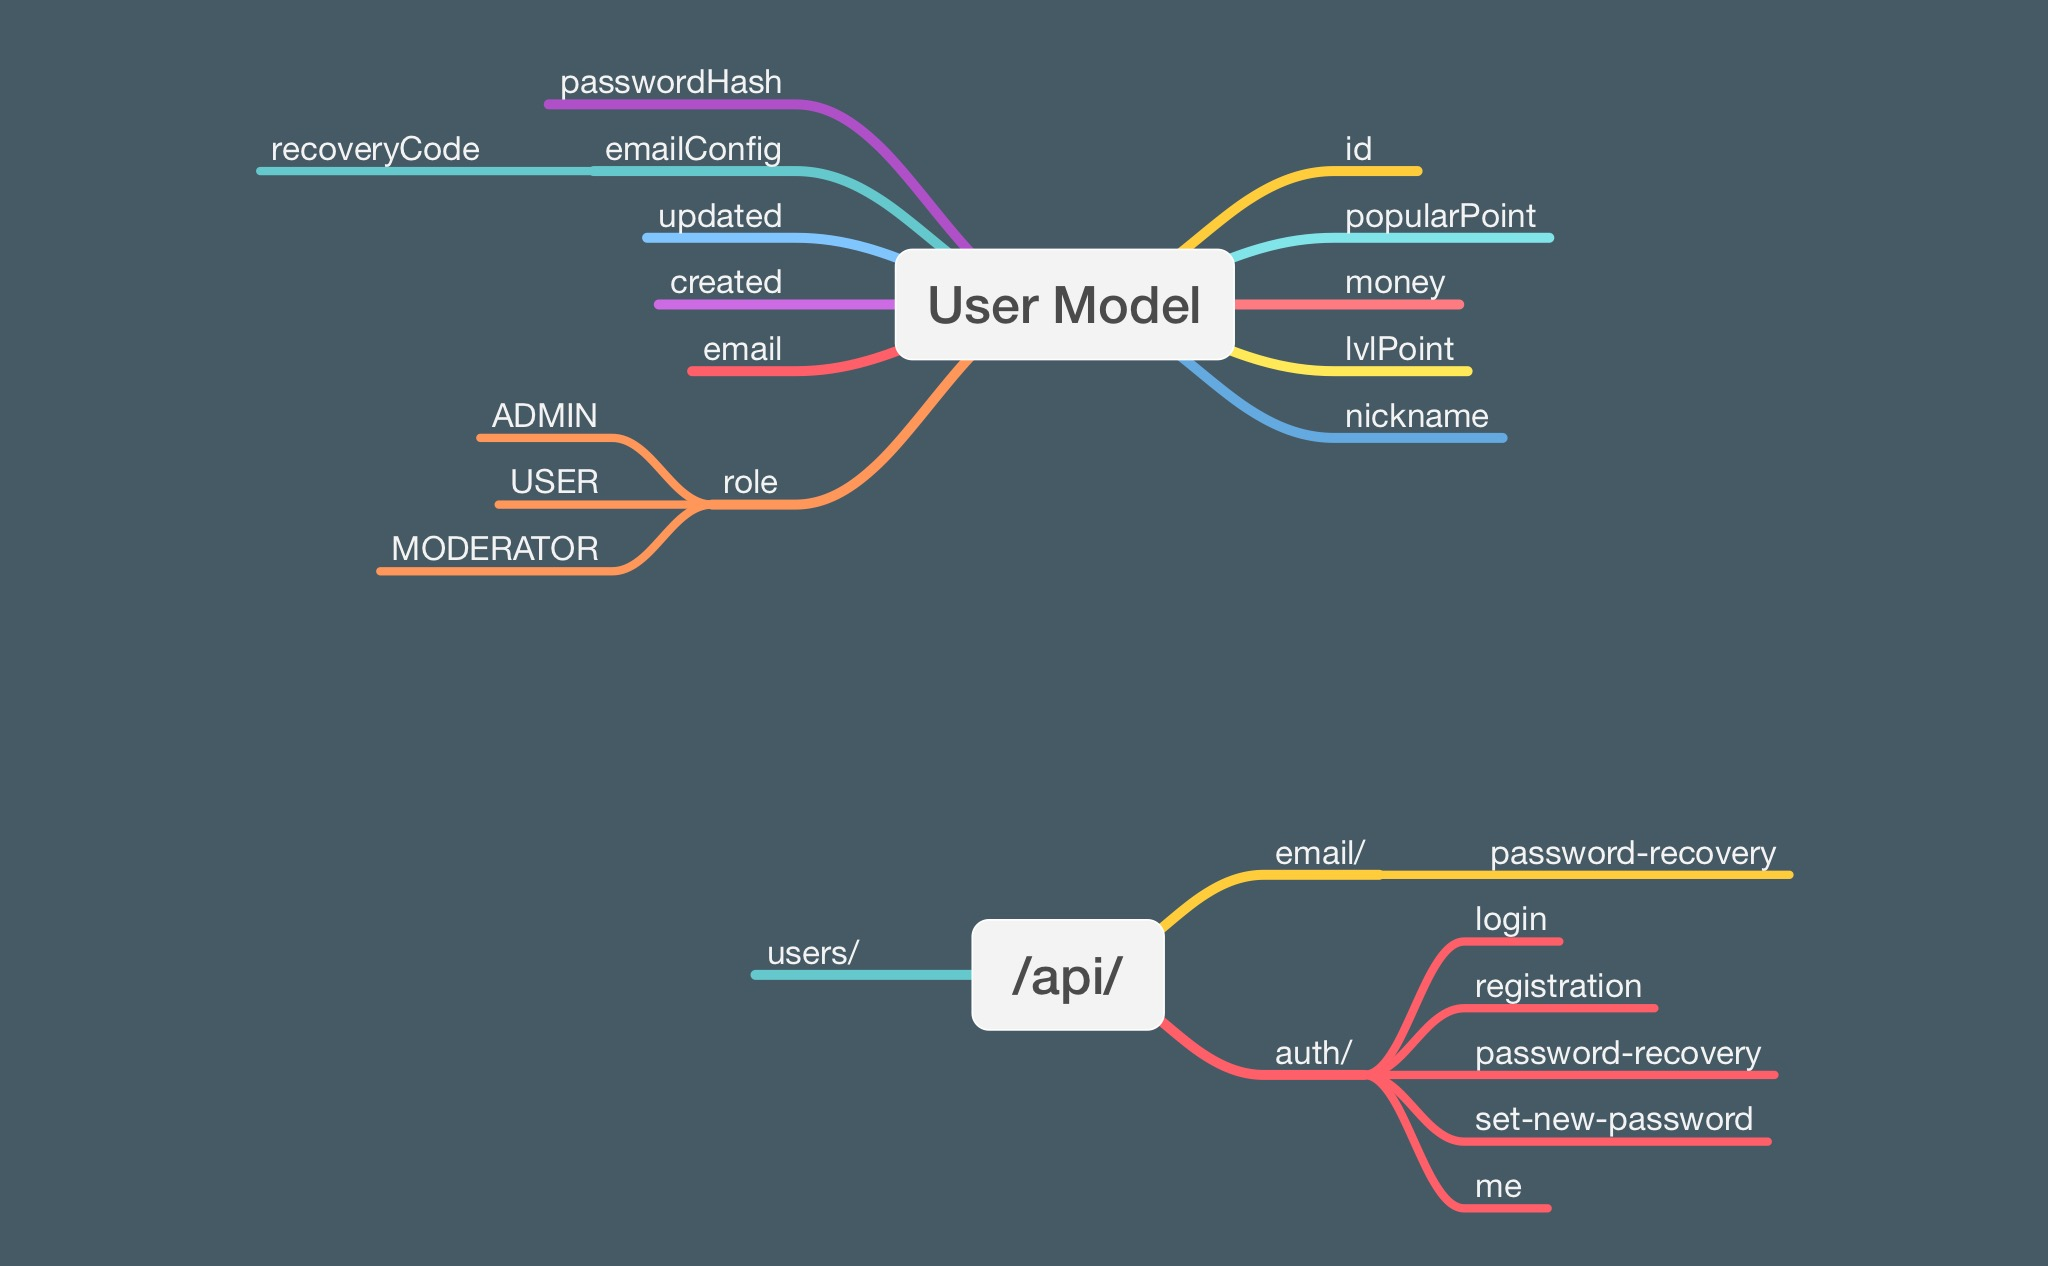
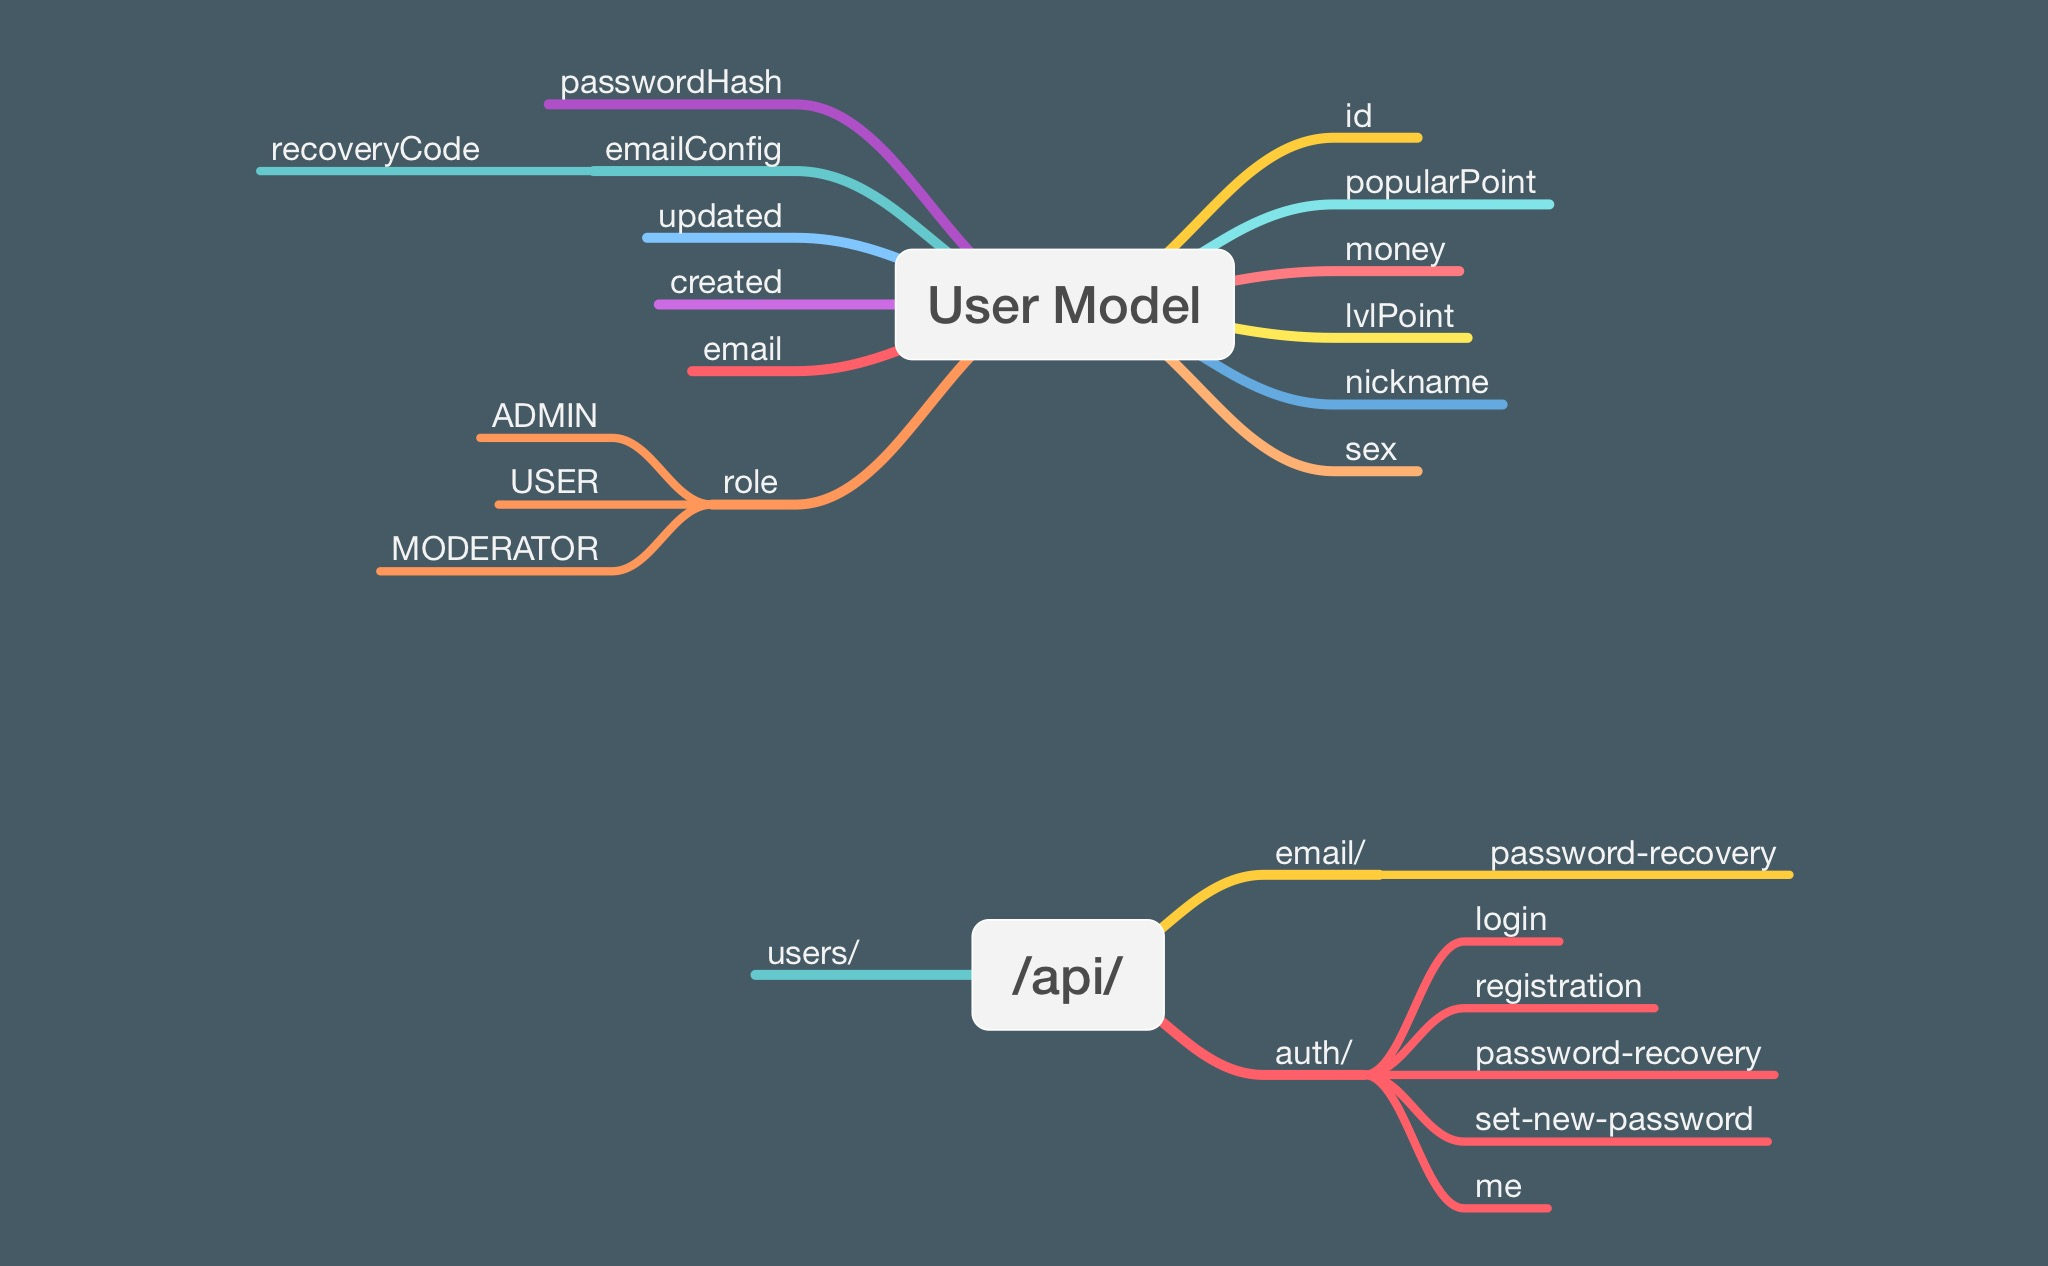
added sex to user

Changed region(s): [[0.5625, 0.0924, 0.75, 0.4005]]

diff --git a/server/src/users/dto/update-user.dto.ts b/server/src/users/dto/update-user.dto.ts
@@ -1,6 +1,6 @@
 import { IsDate, IsEnum, IsNumber, IsString } from 'class-validator';
 import { PartialType } from '@nestjs/mapped-types';
-import { UserRoleType } from '../../schemas/users.schema';
+import { SexType, UserRoleType } from '../../schemas/users.schema';
 
 class UpdateUser {
   @IsString()
@@ -23,6 +23,9 @@ class UpdateUser {
 
   @IsDate()
   readonly created: Date;
+
+  @IsEnum(SexType)
+  readonly sex: SexType;
 }
 
 export class UpdateUserDto extends PartialType(UpdateUser) {}

diff --git a/server/src/schemas/users.schema.ts b/server/src/schemas/users.schema.ts
@@ -9,6 +9,11 @@ export enum UserRoleType {
   moderator = 'MODERATOR',
 }
 
+export enum SexType {
+  woman = 'woman',
+  male = 'male',
+}
+
 @Schema({ _id: false })
 class EmailConfig {
   @Prop()
@@ -49,6 +54,9 @@ export class User {
 
   @Prop({ default: new Date() })
   created: Date;
+
+  @Prop()
+  sex: SexType;
 }
 
 export const UserSchema = SchemaFactory.createForClass(User);
